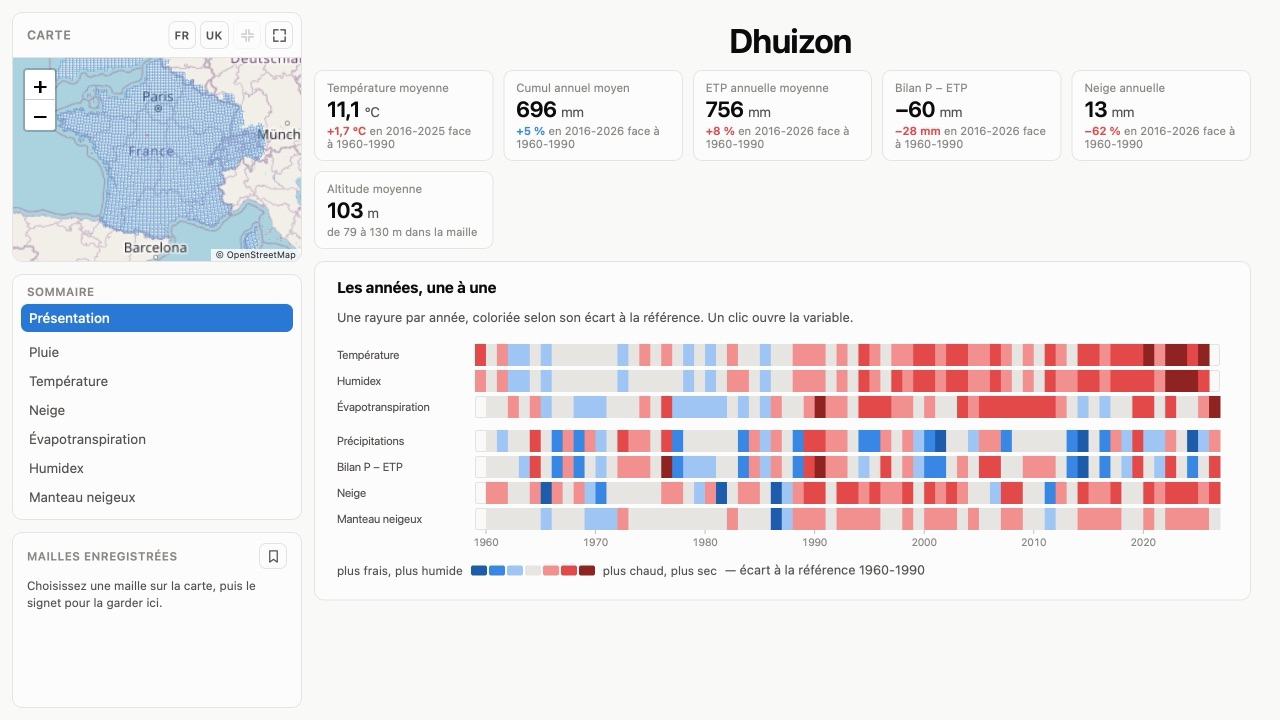
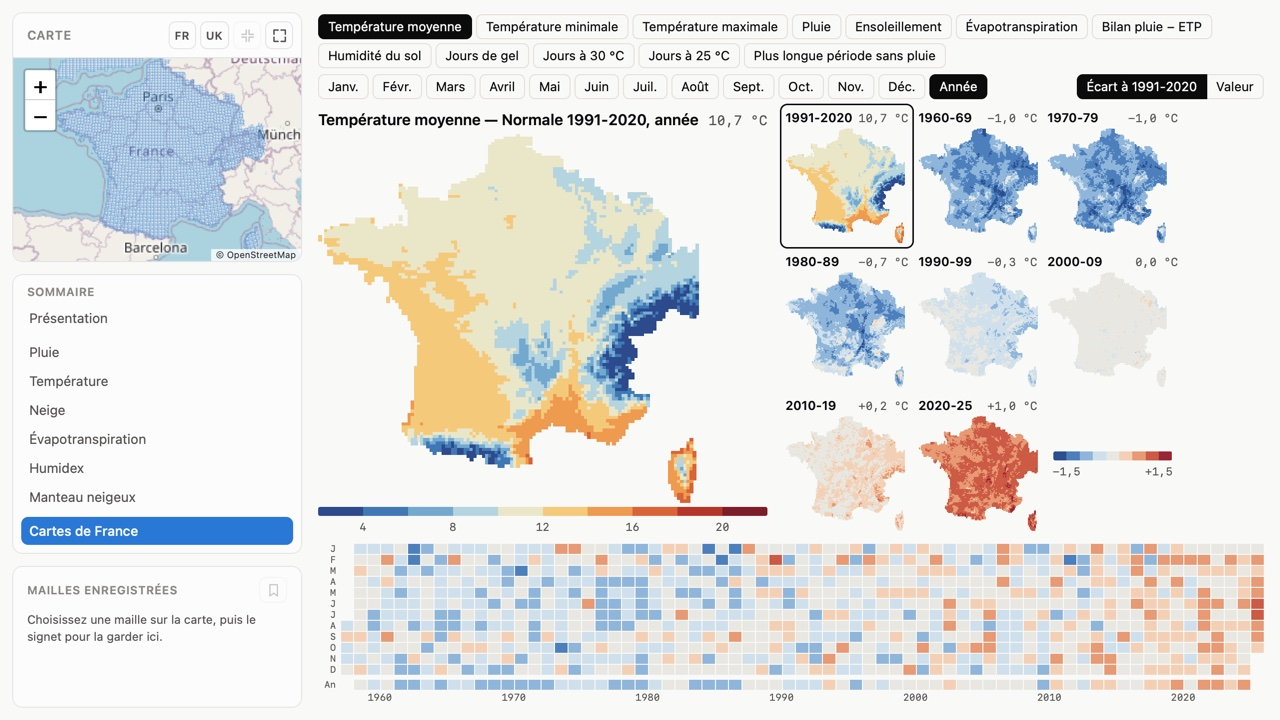
Climat : capture et description de l'accueil refaites (cartes de France) ; fichiers numérotés pour passer outre le cache ; versions.js jamais en cache

diff --git a/index.html b/index.html
@@ -263,14 +263,14 @@ footer a { color: inherit; text-underline-offset: 3px; }
   <article class="app travaux" data-app="climat" aria-labelledby="climat" style="--teinte:#2f6fd1">
     <div class="media revele">
       <div class="cadre">
-        <div class="ecran"><img src="medias/climat.jpg" alt="Une maille de 8 km en Loir-et-Cher : température, pluie et évapotranspiration de 1960 à aujourd'hui" width="1280" height="720" decoding="async"></div>
+        <div class="ecran"><img src="medias/climat.jpg?v=3" alt="Les cartes de France : température moyenne, normale 1991-2020, décennies et calendrier des mois depuis 1958" width="1280" height="720" decoding="async"></div>
         <p class="chantier">En travaux</p>
       </div>
     </div>
     <div class="texte">
       <img class="icone revele" style="--d:1" src="medias/climat-icone.png" alt="" width="48" height="48">
       <h2 class="revele" style="--d:2" id="climat"><a class="lien" href="climat/">Climat<svg viewBox="0 0 16 16" aria-hidden="true"><path d="M3 8h9.5M8.5 4l4 4-4 4"/></svg></a></h2>
-      <p class="desc revele" style="--d:3">Le climat de chaque lieu, jour par jour depuis 1959.</p>
+      <p class="desc revele" style="--d:3">Le climat de la France depuis 1958, mois par mois et lieu par lieu.</p>
       <p class="maj revele" style="--d:4"></p>
     </div>
   </article>
@@ -365,7 +365,7 @@ footer a { color: inherit; text-underline-offset: 3px; }
   <p><a href="https://creativecommons.org/licenses/by-nc/4.0/deed.fr" rel="license">Licence CC BY-NC 4.0</a></p>
 </footer>
 
-<script src="versions.js"></script>
+<script>document.write('<script src="versions.js?'+Date.now()+'"><\/script>')</script><!-- jamais pris dans le cache : c'est lui qui dit la version -->
 <script>
 (function () {
   // classées de la dernière mise à jour à la plus ancienne (versions.js, écrit à chaque publication), avant la première apparition

diff --git a/climat/index.html b/climat/index.html
@@ -5,7 +5,7 @@
 <meta name="viewport" content="width=device-width, initial-scale=1.0" />
 <title>Climat</title>
 <link rel="stylesheet" href="https://cdnjs.cloudflare.com/ajax/libs/leaflet/1.9.4/leaflet.min.css" />
-<link rel="stylesheet" href="style.css" />
+<link rel="stylesheet" href="style.css?v=3" />
 </head>
 <body>
 <div id="app-body">
@@ -223,10 +223,10 @@
 </div>
 
 <script src="https://cdnjs.cloudflare.com/ajax/libs/leaflet/1.9.4/leaflet.min.js"></script>
-<script src="projection.js"></script>
+<script src="projection.js?v=3"></script>
 <script src="data/grid.js"></script>
 <script src="data/grid-uk.js"></script>
-<script src="graphiques.js"></script>
-<script src="app.js"></script>
+<script src="graphiques.js?v=3"></script>
+<script src="app.js?v=3"></script>
 </body>
 </html>

diff --git a/climat/cartes/index.html b/climat/cartes/index.html
@@ -191,9 +191,10 @@ function survol(cv,lire){
   cv.addEventListener('mouseleave',()=>bulle.hidden=true);
 }
 function legende(bar,ticks,bornes,couls,d,signeOn){
-  const n=couls.length,pas=bornes.length>8?2:1;
+  const n=couls.length,pas=bornes.length>8?2:1,etroit=bar.clientWidth&&bar.clientWidth<200;
   bar.innerHTML=couls.map(c=>`<span style="background:${c}"></span>`).join('');
-  const montre=signeOn?(i=>[0,2,5,7].includes(i)):(i=>i%pas===0);
+  // une échelle étroite n'a la place que pour ses deux bouts
+  const montre=signeOn?(i=>(etroit?[0,7]:[0,2,5,7]).includes(i)):(i=>i%(etroit?pas*2:pas)===0);
   ticks.innerHTML=bornes.map((v,i)=>!montre(i)?'':`<span style="left:${(i+1)/n*100}%">${signeOn?signe(v,d):fmtN(v,d)}</span>`).join('');
 }
 

diff --git a/climat/app.js b/climat/app.js
@@ -1302,7 +1302,7 @@ function afficherPartie() {
   const cartes = partieActive === CARTES;
   if (cartes && !cartesDiv.firstElementChild) {
     const f = document.createElement("iframe");
-    f.src = "cartes/index.html";
+    f.src = "cartes/index.html?v=3";
     f.title = CARTES.libelle;
     cartesDiv.appendChild(f);
   }
